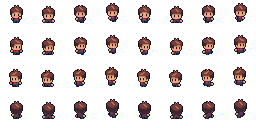
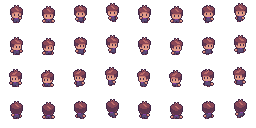
feat: player idle animations

diff --git a/src/js/player.js b/src/js/player.js
@@ -17,6 +17,7 @@ export class Player {
 
     // anims
     this.spritesheet = null;
+    this.spritesheet2 = null;
     this.frameX = 0;
     this.frameY = 0;
     this.animationSpeed = 5; // frames per animation change
@@ -50,6 +51,16 @@ export class Player {
     return new Promise((resolve, reject) => {
       this.spritesheet.onload = () => resolve();
       this.spritesheet.onerror = () =>
+        reject(new Error("failed to load player spritesheet"));
+    });
+  }
+
+  async loadSpritesheet2(spritesheetPath) {
+    this.spritesheet2 = new Image();
+    this.spritesheet2.src = spritesheetPath;
+    return new Promise((resolve, reject) => {
+      this.spritesheet2.onload = () => resolve();
+      this.spritesheet2.onerror = () =>
         reject(new Error("failed to load player spritesheet"));
     });
   }
@@ -213,14 +224,10 @@ export class Player {
 
   animate() {
     // animation
-    if (this.moving) {
-      this.frameCounter++;
-      if (this.frameCounter >= this.animationSpeed) {
-        this.frameCounter = 0;
-        this.frameX = (this.frameX + 1) % 8; // assuming 4 frames per animation
-      }
-    } else {
-      this.frameX = 0; // reset to standing frame when not moving
+    this.frameCounter++;
+    if (this.frameCounter >= this.animationSpeed) {
+      this.frameCounter = 0;
+      this.frameX = (this.frameX + 1) % 8; // assuming 8 frames per animation
     }
 
     // set frameY based on direction
@@ -243,20 +250,33 @@ export class Player {
   render() {
     if (!this.spritesheet || !this.spritesheet.complete) return;
 
-    const frameWidth = this.spritesheet.width / 8; // 4 columns of frames
+    const frameWidth = this.spritesheet.width / 8; // 8 columns of frames
     const frameHeight = this.spritesheet.height / 4; // 4 rows of frames (up, down, left, right)
 
-    this.ctx.drawImage(
-      this.spritesheet,
-      this.frameX * frameWidth,
-      this.frameY * frameHeight,
-      frameWidth,
-      frameHeight,
-      this.x,
-      this.y,
-      this.width,
-      this.height,
-    );
+    if (!this.moving)
+      this.ctx.drawImage(
+        this.spritesheet,
+        this.frameX * frameWidth,
+        this.frameY * frameHeight,
+        frameWidth,
+        frameHeight,
+        this.x,
+        this.y,
+        this.width,
+        this.height,
+      );
+    else
+      this.ctx.drawImage(
+        this.spritesheet2,
+        this.frameX * frameWidth,
+        this.frameY * frameHeight,
+        frameWidth,
+        frameHeight,
+        this.x,
+        this.y,
+        this.width,
+        this.height,
+      );
 
     // draw collision box in debug mode
     if (this.debugMode) {

diff --git a/src/main.js b/src/main.js
@@ -27,7 +27,8 @@ const player = new Player(
   2,
   mapGen,
 );
-await player.loadSpritesheet("../character/run.png");
+await player.loadSpritesheet("../character/idle.png");
+await player.loadSpritesheet2("../character/run.png");
 
 // player movement
 window.addEventListener("keydown", (e) => player.handleKeyDown(e));
